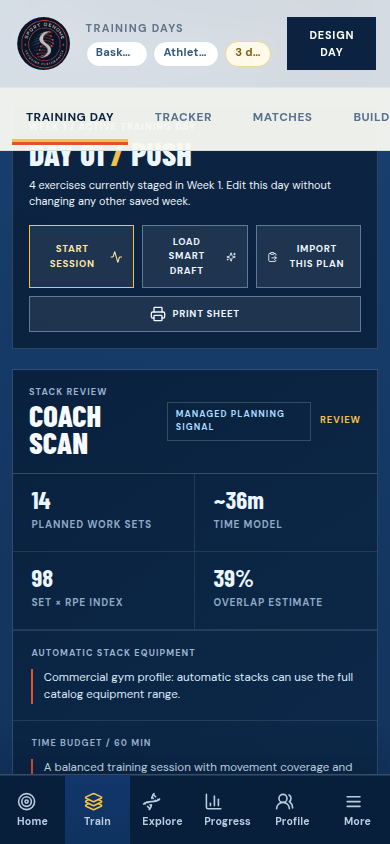
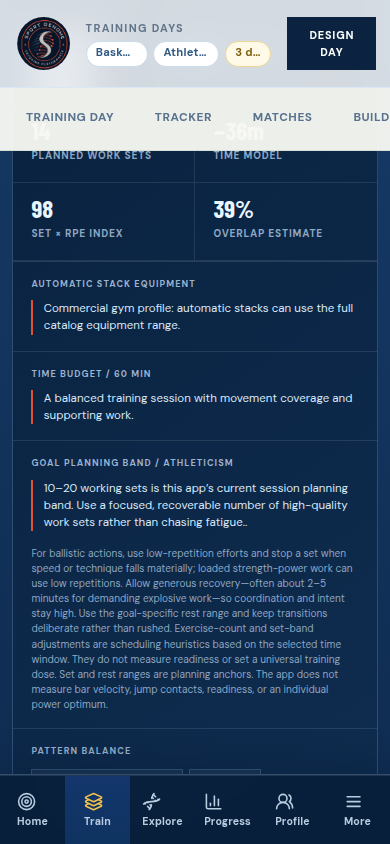
Checkpoint: Publish the Training Day Stack Review reachability correction. The compact Coach Scan remains collapsed by default, but selecting the existing Stack Review contextual tab now opens its on-demand disclosure and scrolls it into the visible mobile workspace after the normal route top-reset 

Changed region(s): [[0.0308, 0.1232, 0.9846, 0.9242], [0.9231, 0.3081, 0.9538, 0.3389]]

diff --git a/client/src/pages/Home.mobileNavigation.test.ts b/client/src/pages/Home.mobileNavigation.test.ts
@@ -90,7 +90,8 @@ describe("workspace side navigation", () => {
     expect(source).toContain('label: "Stack Review", workspace: "day-plan"');
     expect(source).toContain('label: "Prep", workspace: "custom"');
     expect(source).toContain('navigateWorkspace("tracker")');
-    expect(source).toContain('document.querySelector(scrollTarget)?.scrollIntoView');
+    expect(source).toContain('const target = document.querySelector(scrollTarget);');
+    expect(source).toContain('target?.scrollIntoView({ behavior: "smooth", block: "start" });');
     expect(source).toContain('<DeviceWorkoutTracker');
     expect(workoutTrackerSource).toContain('id="workout-tracker"');
     expect(deviceTrackerSource).toContain('id="workout-tracker"');
@@ -109,6 +110,8 @@ describe("workspace side navigation", () => {
     expect(source).toContain('label: "Stack Review", workspace: "day-plan", scrollTarget: "#stack-review"');
     expect(source).toContain('label: "Prep", workspace: "custom", scrollTarget: "#session-prep"');
     expect(source).toContain('const navigateContextualWorkspace = (tab: ContextualWorkspaceTab)');
+    expect(source).toContain('if (scrollTarget) window.requestAnimationFrame(() => window.requestAnimationFrame(() => {');
+    expect(source).toContain('if (tab.id === "stack-review") target?.querySelector<HTMLDetailsElement>("details")?.setAttribute("open", "");');
     expect(source).toContain('aria-current={active ? "page" : undefined}');
     expect(source).toContain('const activeContextTabId = activeContextTab ?? contextualWorkspaceTabs.find((tab) => tab.workspace === workspace && !tab.scrollTarget)?.id ?? contextualWorkspaceTabs[0]?.id ?? null;');
     expect(source).toContain('const active = activeContextTabId === tab.id;');

diff --git a/client/src/pages/Home.tsx b/client/src/pages/Home.tsx
@@ -721,7 +721,11 @@ export default function Home() {
     setActiveContextTab(tab.id);
     if (tab.id === "tracker") return;
     const scrollTarget = tab.scrollTarget;
-    if (scrollTarget) window.setTimeout(() => document.querySelector(scrollTarget)?.scrollIntoView({ behavior: "smooth", block: "start" }), 0);
+    if (scrollTarget) window.requestAnimationFrame(() => window.requestAnimationFrame(() => {
+      const target = document.querySelector(scrollTarget);
+      if (tab.id === "stack-review") target?.querySelector<HTMLDetailsElement>("details")?.setAttribute("open", "");
+      target?.scrollIntoView({ behavior: "smooth", block: "start" });
+    }));
   };
 
   if (!directWorkspaceAccess && loading) return <div className="account-entry-loading">Checking secure account access…</div>;

diff --git a/research/visual_validation_2026-08-28_rank_and_boot.md b/research/visual_validation_2026-08-28_rank_and_boot.md
@@ -23,3 +23,5 @@ The first 390×844 automated Training Day capture recorded the document boot scr
 ## Training Day Stack Review disclosure
 
 With the boot preference disabled in the isolated browser, the populated 390×844 Training Day capture shows the Coach Scan as a compact, visible `Stack review` trigger rather than an expanded diagnostics block. The trigger presents only a managed planning signal and `Review` affordance in the default flow, while the automated browser check confirms that its detailed set, time, and overlap information expands only on request. The existing multi-action day card remains a separate decluttering opportunity and is not claimed as resolved by this refinement.
+
+The visible `Stack Review` contextual tab was then verified to open the same disclosure and bring it beneath the sticky workspace navigation. The first implementation competed with the general workspace top-reset animation; sequencing the target scroll on the following animation frame resolves that collision. The settled 390×844 capture shows the detailed diagnostics in view and clear of the fixed bottom navigation. The remaining long-form diagnostic content is intentionally visible only after this deliberate navigation or an explicit disclosure open.
